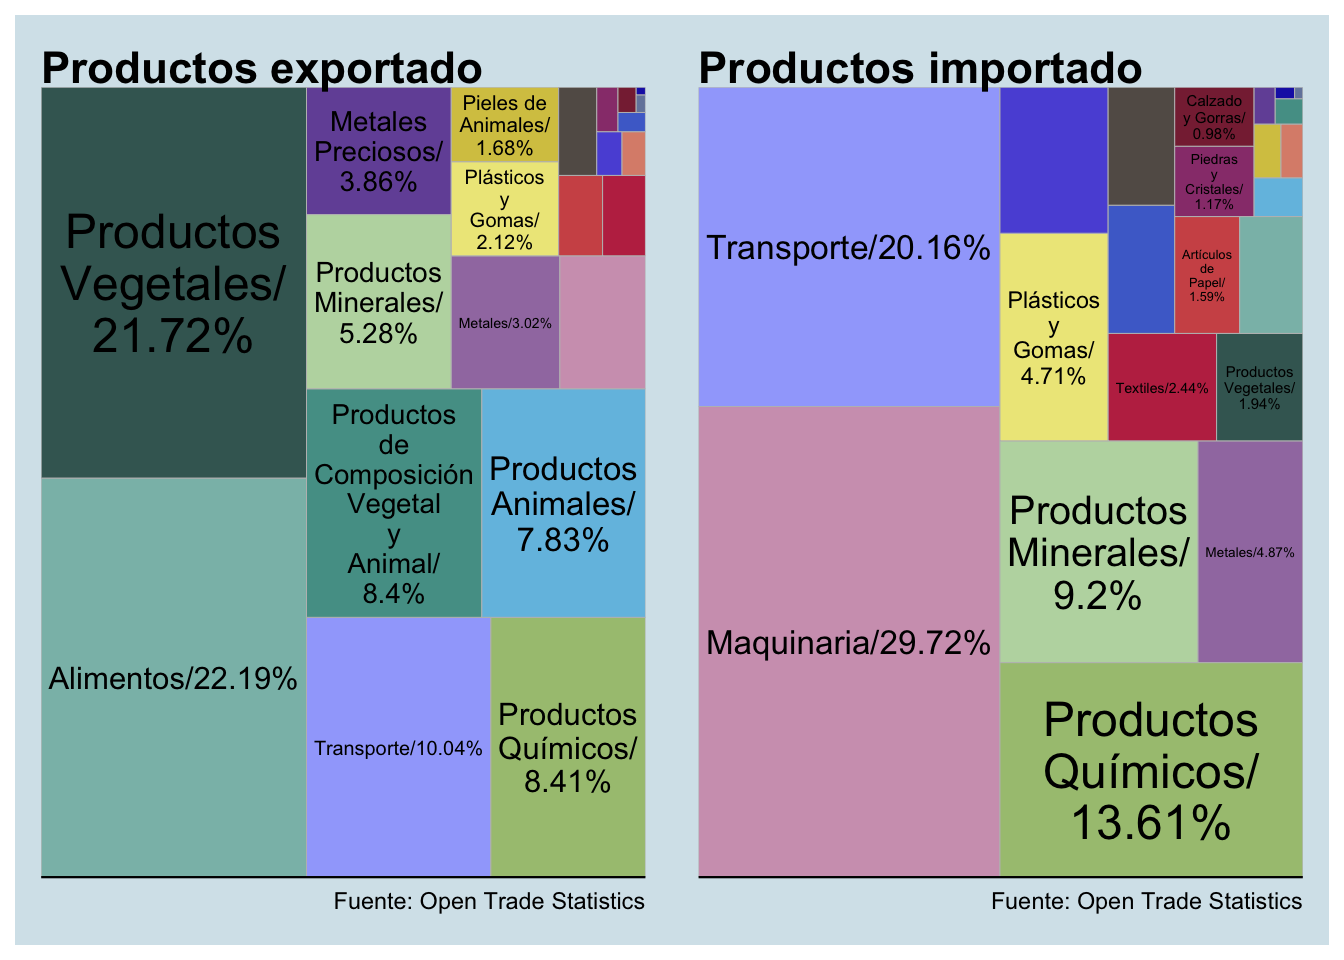
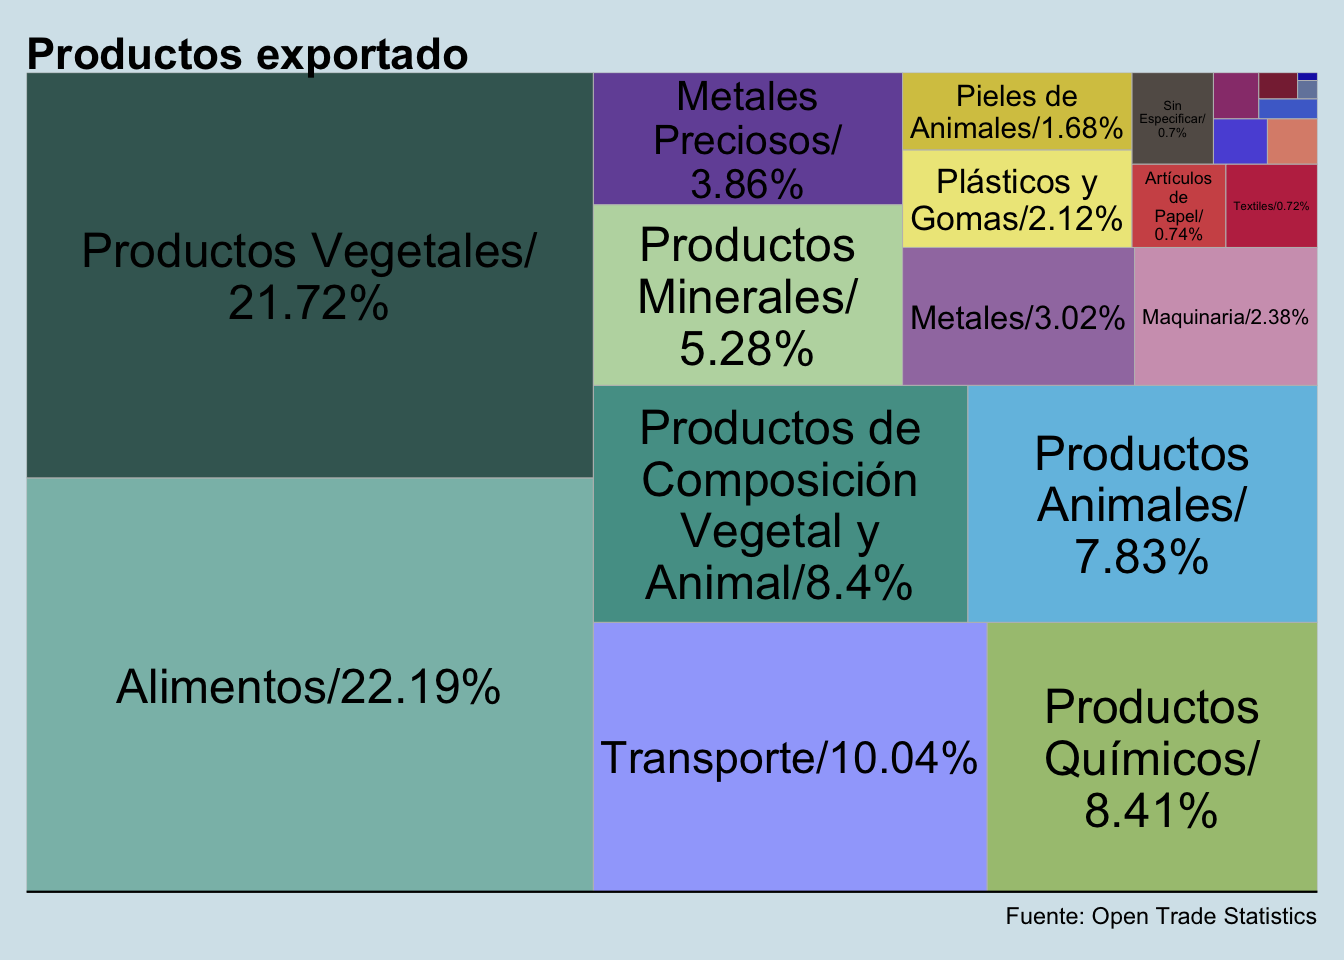
Updating comercio argentino

diff --git a/public/post/comercio-latam/index.html b/public/post/comercio-latam/index.html
@@ -15,10 +15,12 @@ output:
 
 
 <p>En este post, quiero analizar la evolución historico del comercio desde los 1980s hasta 2018 (el último año disponible en el base de datos) para toda la región de América Latin utilizando el base de dato de Open Trade Statistics.</p>
-<p>El post está divido en tres analisis diferentes:
-(1) Un analisis del desarrollo del conjunto de exportaciones y importaciones de toda la región en conjunto.
-(2) Un analisis de la evolución del comercio de los países en la región para poder analizar quién cuales son los mayores comerciante en la región. Por comercio se entiendo el combinado valor de importaciones y exportaciones.
-(3) Por último, un analisis del desarrollo desde los 1980s en las mayores categorías de productos importados en la región.</p>
+<p>El post está divido en tres analisis diferentes:</p>
+<ol style="list-style-type: decimal">
+<li><p>Un analisis del desarrollo del conjunto de exportaciones y importaciones de toda la región en conjunto.</p></li>
+<li><p>Un analisis de la evolución del comercio de los países en la región para poder analizar quién cuales son los mayores comerciante en la región. Por comercio se entiendo el combinado valor de importaciones y exportaciones.</p></li>
+<li><p>Por último, un analisis del desarrollo desde los 1980s en las mayores categorías de productos importados en la región.</p></li>
+</ol>
 <p>Cómo clave para este post es el analisis historico de los datos sobre América Latina. En los siguientes posts, analizo por separado los flujos de importación y exportación en los últimos años.</p>
 <div id="las-libraría-utilizadas" class="section level3">
 <h3>Las libraría utilizadas:</h3>
@@ -48,8 +50,9 @@ library(patchwork)</code></pre>
   filter(continent == &quot;Americas&quot;) </code></pre>
 <p>Ahora puedo unir los dos bases de datos, y voy a tener solamente la información disponible para la región de las Americas.</p>
 <p>No obstante, en realidad no es toda la región de las Américas que me interesa, sino solamente los países que pertenece a América Latin. Por eso, después de unir los bases de datos, voy a pedir que R me exclude los EEUU, Canada, Gronlandia y otros pequeños territorios estadounidenses y britanicos en el Caribe. Obviamente, se podía discutir si se debería incluir esos últimos somo parte del Caribe, pero acá los excluyo del analisis:</p>
-<pre class="r"><code>comercio_latam_reducido &lt;- merge(x = comercio_mundo_api, y = countries_LATAM,
-      by = &quot;country_iso&quot;) %&gt;%
+<pre class="r"><code>comercio_latam_reducido &lt;- merge(x = comercio_mundo_api, 
+                                 y = countries_LATAM,
+                                 by = &quot;country_iso&quot;) %&gt;%
   filter(country_iso != &quot;usa&quot;, # Excluding the U.S.
          country_iso != &quot;can&quot;, # Excluding Canada
          country_iso != &quot;grl&quot;, # Excluding Greenland
@@ -68,18 +71,18 @@ library(patchwork)</code></pre>
 <p>Genero un nuevo data frame agrupado por año y summando el valor de importación y exportación de cada país y de cada año:</p>
 <pre class="r"><code>trade_total &lt;- comercio_latam_reducido %&gt;%
   group_by(year) %&gt;%
-  summarise(export_value_usd = sum(export_value_usd, na.rm = T),
-            import_value_usd = sum(import_value_usd, na.rm = T))</code></pre>
+  mutate(export = sum(export_value_usd),
+         import = sum(import_value_usd))</code></pre>
 </div>
 <div id="graphicando" class="section level3">
 <h3>Graphicando</h3>
 <p>Ahora puedo usar el nuevo data frame para graficar la evolución de importaciones y exportaciones para todo la región de América Latina por año desde 1980 hasta 2018:</p>
 <pre class="r"><code>ggplot(trade_total) +
   geom_line(aes(year,
-                export_value_usd,
+                export,
                 color = &quot;red&quot;)) +
   geom_line(aes(year,
-                import_value_usd,
+                import,
                 color = &quot;blue&quot;)) +
   scale_y_continuous(labels = scales::dollar_format()) +
     labs(title = &quot;Export de América Latina&quot;,
@@ -108,13 +111,14 @@ library(patchwork)</code></pre>
   mutate(country_fullname_english = as.factor(country_fullname_english))
 
 comercio_latam_caribbean &lt;- comercio_latam_modificado %&gt;%
-  group_by(year,
+  select(year,
          country_fullname_english,
          export_value_usd,
          import_value_usd,
          top_import_product_code) %&gt;%
+  group_by(year,
+           country_fullname_english) %&gt;%
   mutate(trade = sum(export_value_usd+import_value_usd, na.rm = T)) %&gt;%
-  ungroup() %&gt;%
   mutate(country_fullname_english = fct_collapse(country_fullname_english,
                                       &quot;Caribe&quot; = c(&quot;Anguilla&quot;, 
                                                   &quot;Neth. Antilles&quot;, 
@@ -221,7 +225,7 @@ producto_latam_import_reducido &lt;- import_latam_caribbean %&gt;%
          import_value_usd,
          producto) %&gt;%
   group_by(year, producto) %&gt;%
-  summarise(import_value_usd = sum(import_value_usd))
+  summarise(import_value_usd = sum(import_value_usd), .groups = &#39;drop&#39;)
 
 
 ggplot(producto_import_graph, aes(x = year, y = import_value_usd)) +  

diff --git a/public/post/comercio-argentina/index.html b/public/post/comercio-argentina/index.html
@@ -34,6 +34,10 @@ library(treemapify)
 library(ggthemes)
 library(scales)
 library(patchwork)</code></pre>
+<p>Trying to fix an error with the new version of dplyr:</p>
+<pre class="r"><code>library(dplyr, warn.conflicts = FALSE)
+# Suppress summarise info
+options(dplyr.summarise.inform = FALSE)</code></pre>
 </div>
 <div id="evolución-historica-del-comercio-exterior-argentino" class="section level2">
 <h2>Evolución historica del comercio exterior argentino</h2>
@@ -160,51 +164,11 @@ grafico_export_2017</code></pre>
 <p><img src="index_files/figure-html/arg%20productos%20grafico-1.png" width="672" /></p>
 </div>
 </div>
-<div id="importaciones" class="section level2">
-<h2>Importaciones</h2>
-<p>Ahora me interesa ver como se distribuye las importaciones por categoría de productos para después poder comparar los dos.</p>
-<div id="transformando-los-datos-1" class="section level3">
-<h3>Transformando los datos</h3>
-<p>Uso el mismo código que arriba, pero cambio la variable de “valor_exportado_dolares” a ser “valor_importado_dolares”.</p>
-<pre class="r"><code>import_argentina_2017 &lt;- comercio_mundo %&gt;%
-  filter(anio == 2017, 
-         codigo_iso_origen == &quot;arg&quot;) %&gt;%
-  group_by(anio, 
-           nombre_comunidad_producto,
-           color_comunidad_producto) %&gt;%
-  summarise(valor_importado_dolares = sum(valor_importado_dolares, na.rm = T)) %&gt;%
-  ungroup() %&gt;%
-  mutate(
-    etiquetas = paste0(nombre_comunidad_producto, &quot;/&quot;, round(100*valor_importado_dolares/sum(valor_importado_dolares), 2), &quot;%&quot;)
-    )</code></pre>
-</div>
-<div id="graficando-3" class="section level3">
-<h3>Graficando</h3>
-<p>Lo mismo para poder genera el grafico; el código es el mismo pero cambio la variable:</p>
-<pre class="r"><code>grafico_import_2017 &lt;- ggplot(import_argentina_2017, aes(
-  area = valor_importado_dolares, 
-  fill = nombre_comunidad_producto,
-  label = etiquetas)) +
-  geom_treemap() +
-  geom_treemap_text(color = &quot;black&quot;,
-                    place = &quot;centre&quot;,
-                    grow = F,
-                    reflow = T) +
-  scale_fill_manual(values = import_argentina_2017$color_comunidad_producto) +
-  labs(title = &quot;Productos importado&quot;,
-       caption = &quot;Fuente: Open Trade Statistics&quot;) +
-  theme_economist() +
-  theme(legend.position = &quot;none&quot;)
-
-grafico_import_2017</code></pre>
-<p><img src="index_files/figure-html/arg%20productos%20import%20grafico-1.png" width="672" /></p>
-</div>
-</div>
 <div id="comparación" class="section level2">
 <h2>Comparación</h2>
 <p>Tengo la liberaría “patchwork” cargada, lo cual me permite mostrar los dos graficos uno al lado del otro con este fácil código:</p>
 <pre class="r"><code>
-grafico_export_2017 + grafico_import_2017</code></pre>
+grafico_export_2017</code></pre>
 <p><img src="index_files/figure-html/patchwork-1.png" width="672" /></p>
 </div>
 <div id="sum-up-2" class="section level2">
